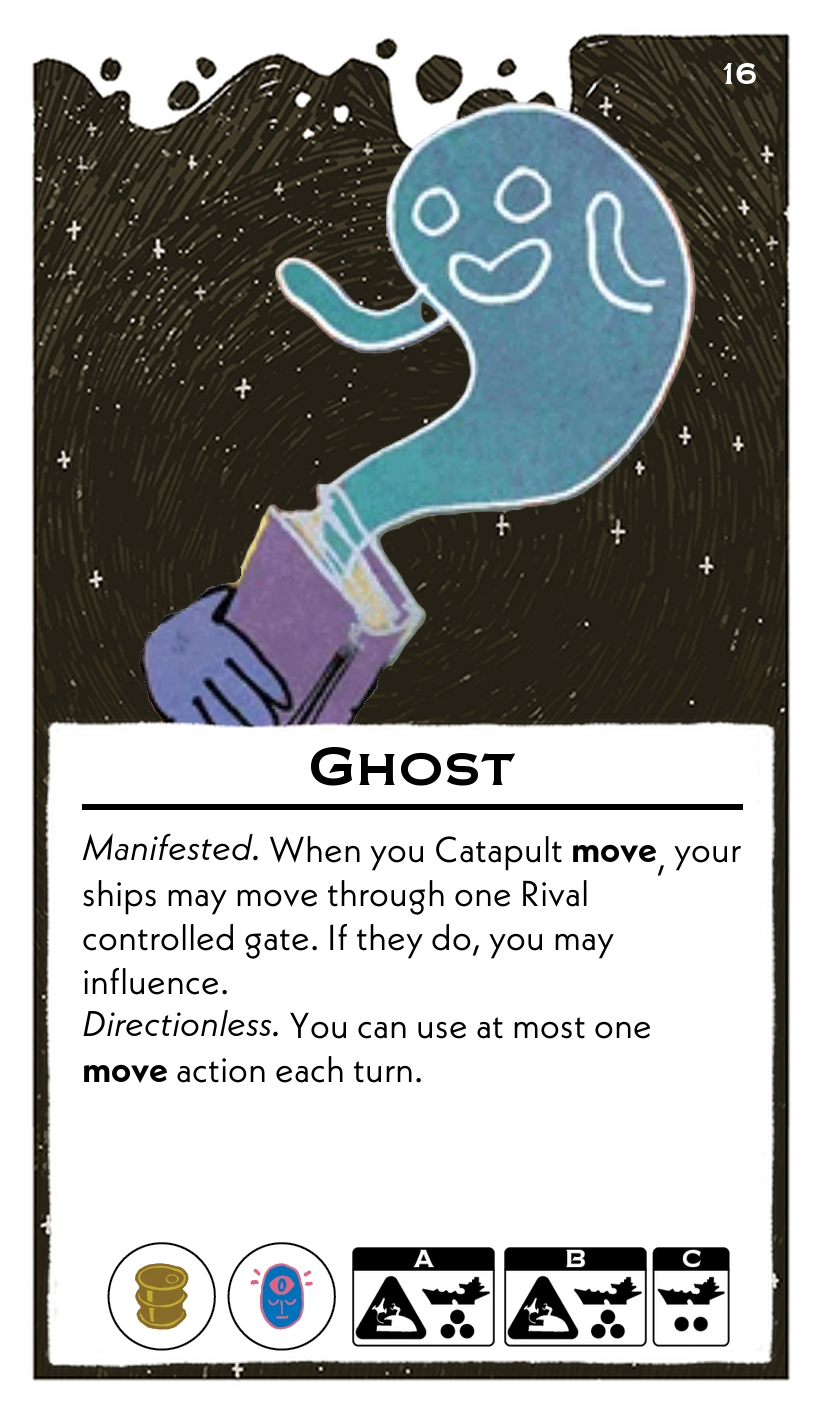
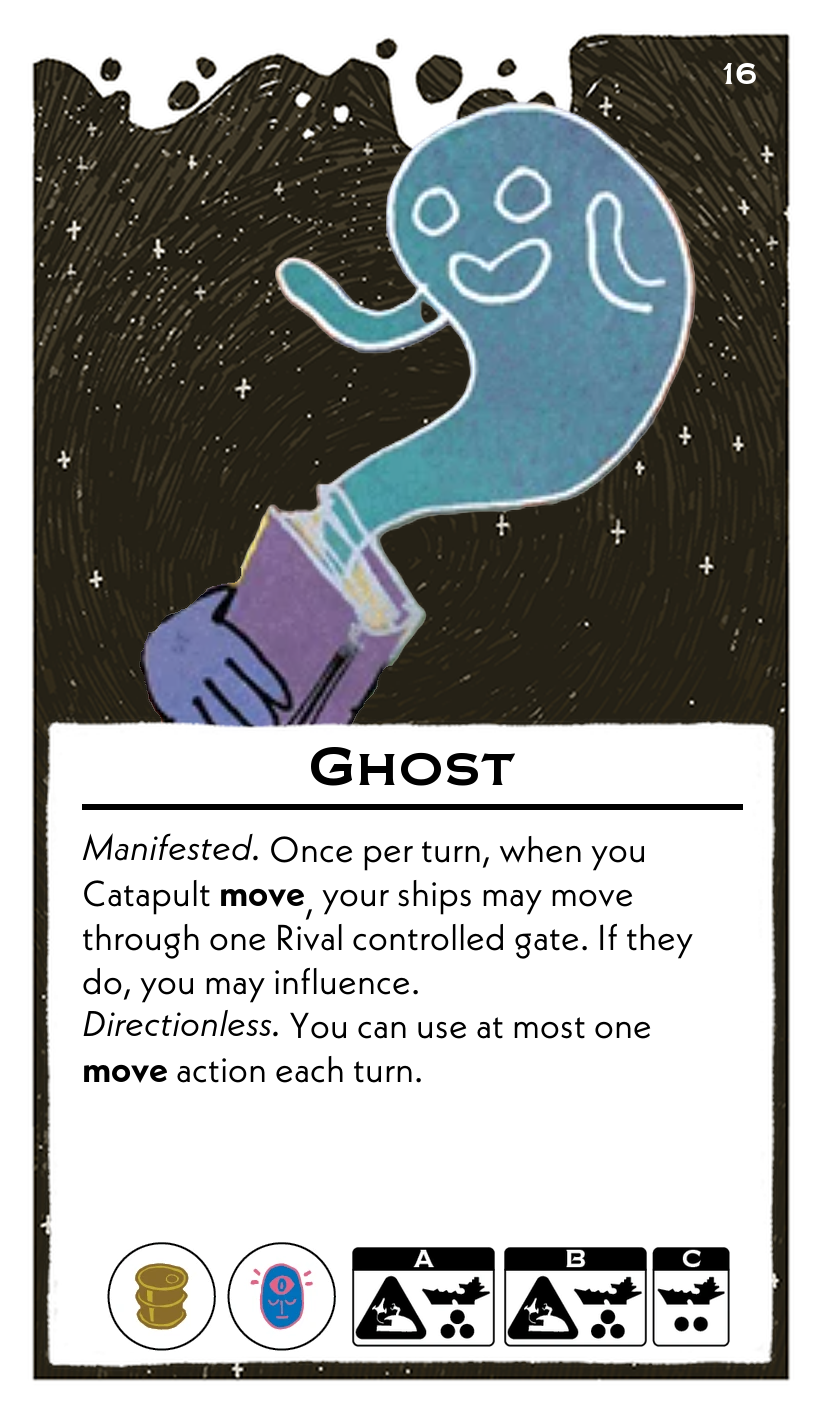
cart

Changed region(s): [[0.0912, 0.5912, 0.9124, 0.7157]]

diff --git a/scripts/leadersFormatted.py b/scripts/leadersFormatted.py
@@ -243,7 +243,7 @@ leaders = [
     {
         "name": "Ghost",
         "abilities": (
-            "*Manifested.* When you Catapult **move**, your ships may move through one Rival controlled gate. If they do, you may influence.\n"
+            "*Manifested.* Once per turn, when you Catapult **move**, your ships may move through one Rival controlled gate. If they do, you may influence.\n"
             "*Directionless.* You can use at most one **move** action each turn."
         ),
         "resources": ["Fuel", "Psionic"],
@@ -698,7 +698,7 @@ leaders = [
     {
         "name": "Cartographer",
         "abilities": (
-            "*Exploratory.* When you Catapulult **move**, gain a Fuel.\n"
+            "*Exploratory.* When you initiate a Catapult **move**, gain a Fuel.\n"
             "*Distracted.* When you Catapult **move**, after each move you must drop off 1 ship."
         ),
         "resources": ["Fuel", "Relic"],
